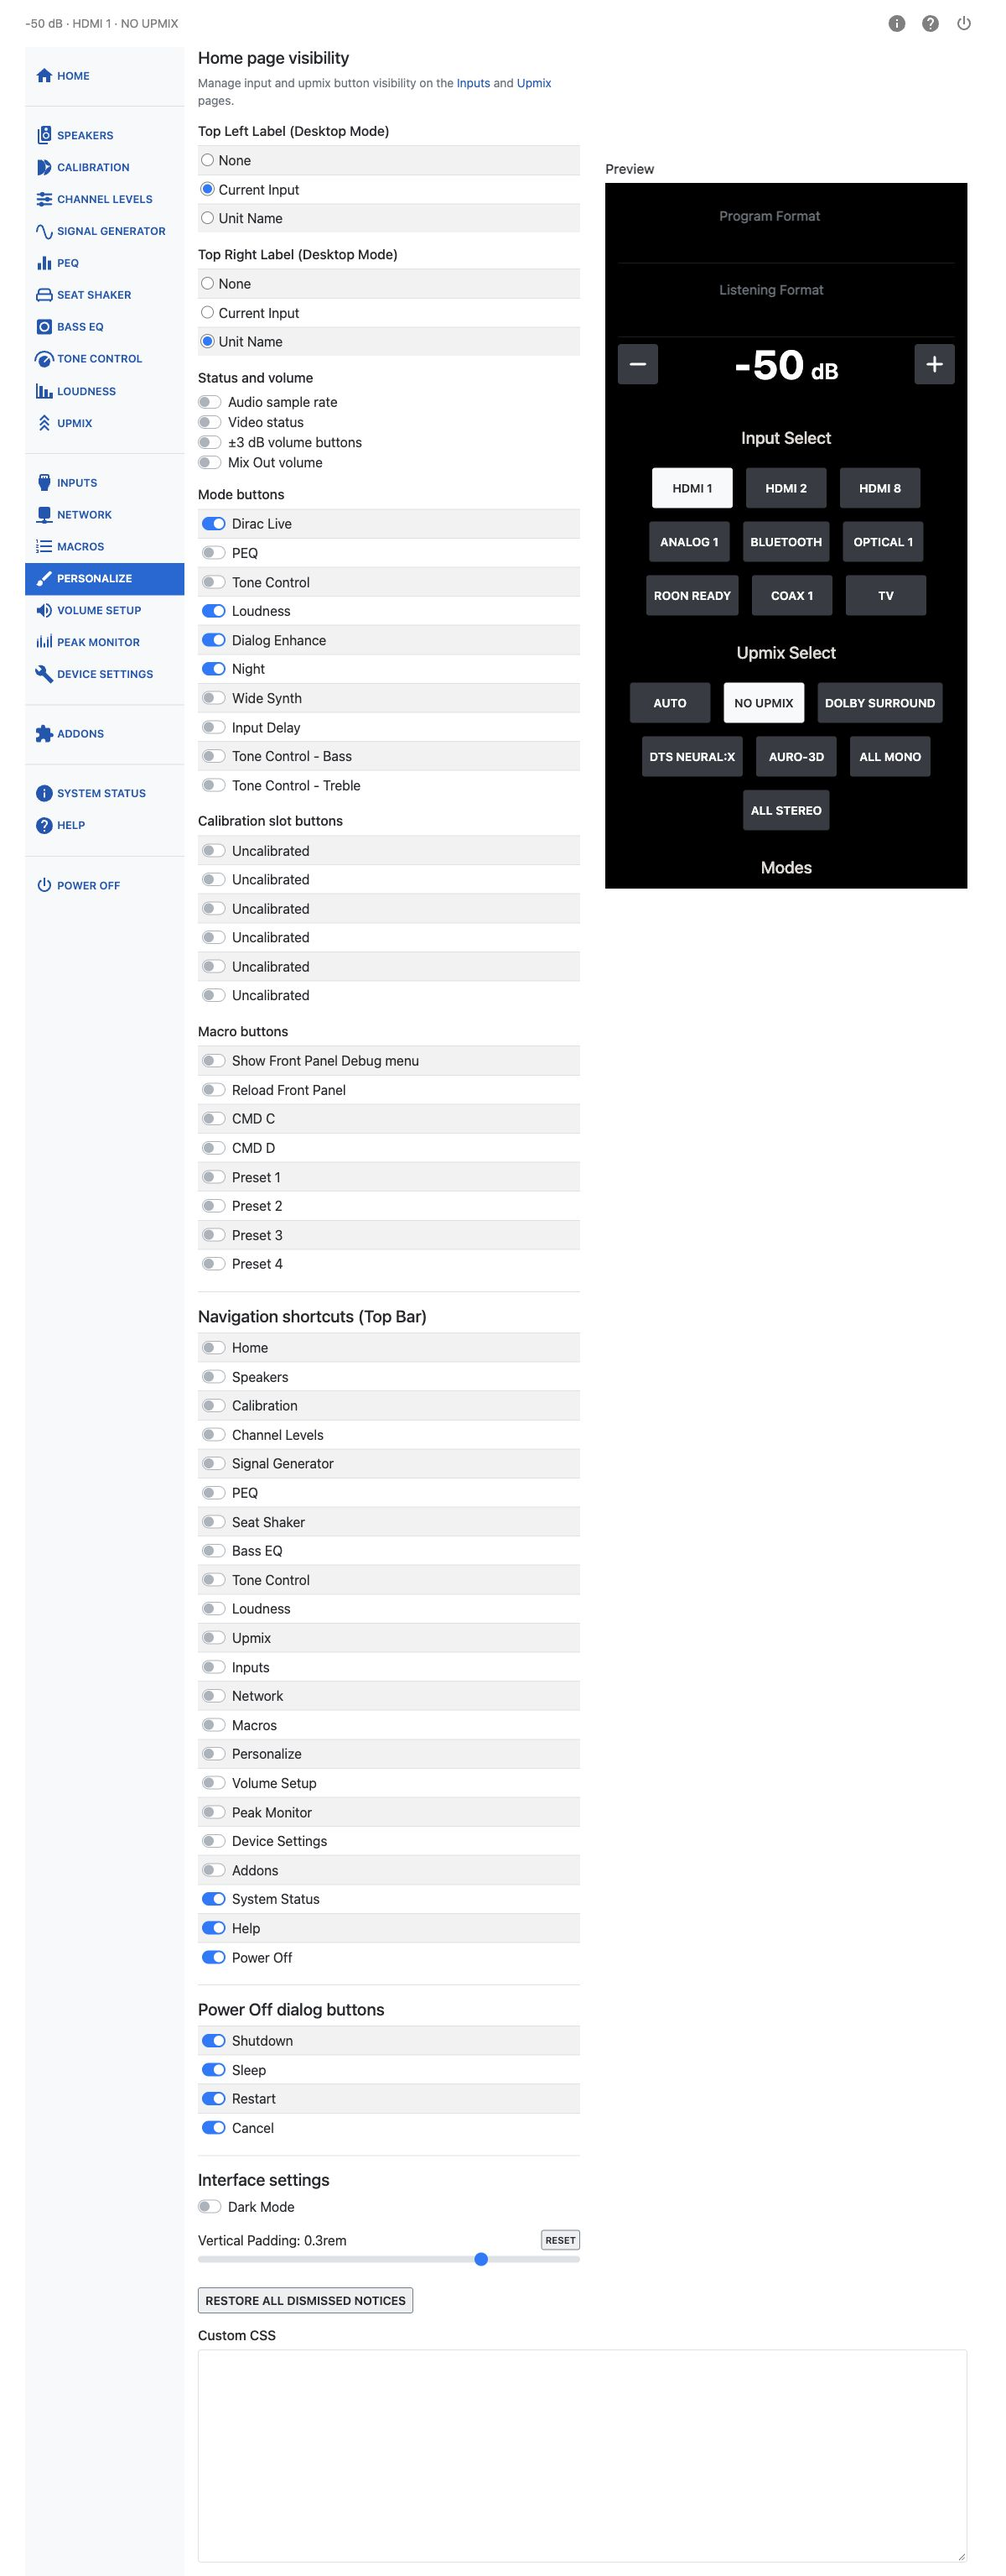
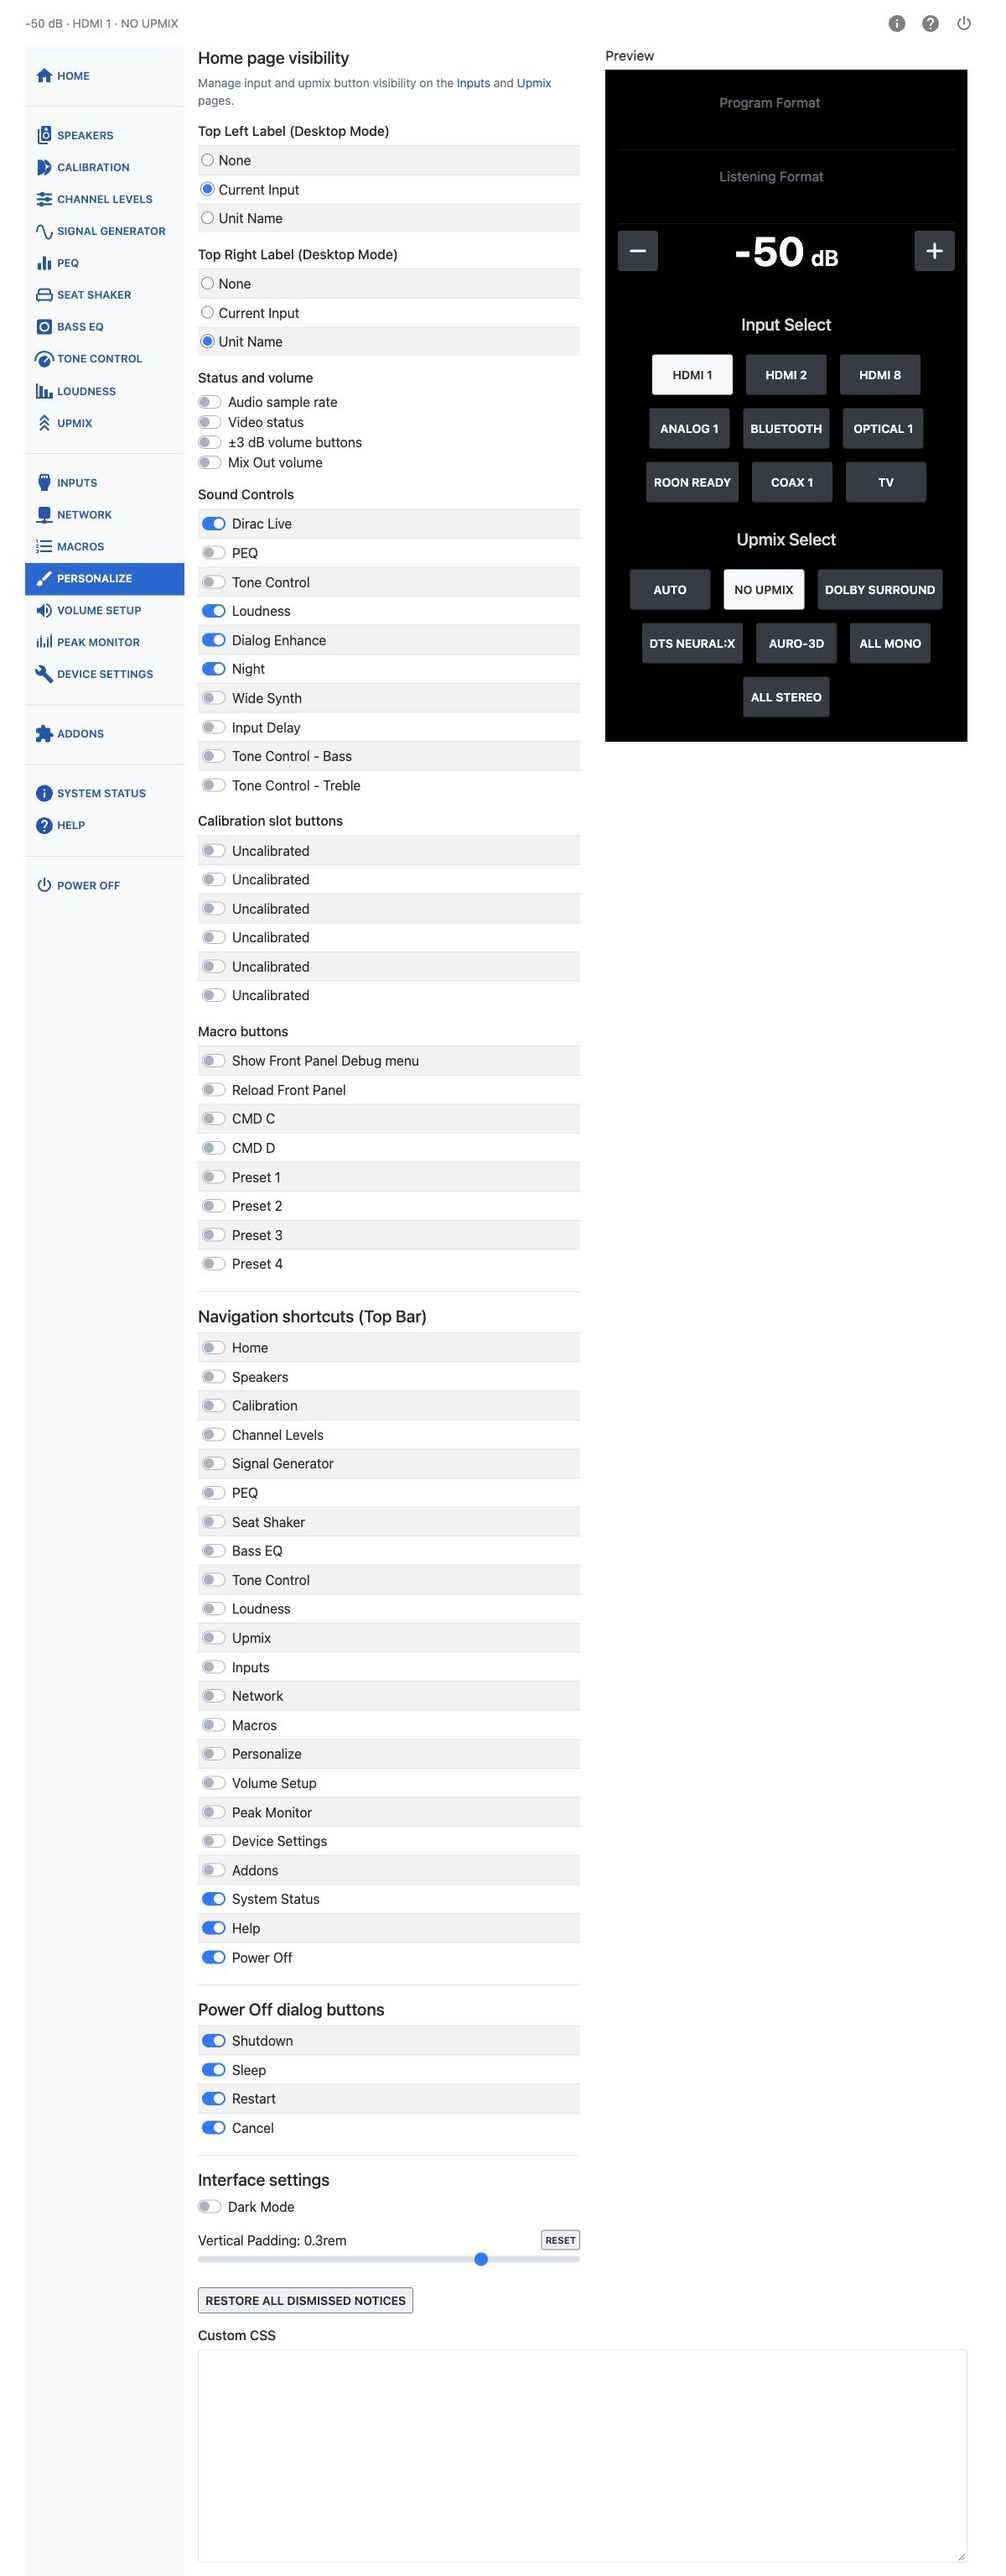
Use Sound Controls terminology and refresh Home screenshots

Changed region(s): [[0.5858, 0.0, 0.9867, 0.3713]]

diff --git a/docs/user-guide/product-overview.md b/docs/user-guide/product-overview.md
@@ -89,7 +89,7 @@ The Home page is what you land on, and what most day-to-day control happens from
 - **Program Format** and **Listening Format** status cards report the incoming and actual decoded formats. A **Video** status card can also appear here, if enabled on Personalize.
 - The **Volume** readout sits in the center, with tap targets on either side to step it up or down. If Mix Out is enabled, a second **Mix Out Volume** control appears below it.
 - **Input Select** and **Upmix Select** button rows choose the active input and upmix mode. Which inputs and upmixes appear, and in what order, is set on the [Inputs](inputs.md) and [Upmix](upmix.md) pages.
-- A row of **Modes** buttons toggles **Dirac Live** (a three-state on / bypass / off control), **Loudness**, **Dialog Enhance**, and **Night** (off / auto / on).
+- The **Sound Controls** section toggles **Dirac Live** (a three-state on / bypass / off control), **Loudness**, **Dialog Enhance**, and **Night** (off / auto / on).
 - If you have Dirac Live calibrations saved, a **Dirac Live Slot Select** row lets you switch between them directly from Home.
 - Rows of **macro** buttons can also appear here, if you have set any up.
 

diff --git a/docs/user-guide/personalize.md b/docs/user-guide/personalize.md
@@ -5,7 +5,7 @@ you see throughout the web UI, and a few display preferences for the interface a
 A live preview of the Home page sits alongside the settings, so you can see the effect of a
 change immediately.
 
-![Personalize page showing homepage settings, shortcuts, modes, and the live preview](images/ui-personalize.jpg)
+![Personalize page showing homepage settings, shortcuts, sound controls, and the live preview](images/ui-personalize.jpg)
 
 ## Homepage Status Display
 
@@ -35,9 +35,9 @@ shown or hidden, along with every other settings page.
 If the Power Off shortcut is turned on, choose which buttons appear in the power dialog:
 Shutdown, Sleep, Restart, and Cancel.
 
-## Homepage Modes
+## Sound Controls
 
-Choose which buttons appear in the Home page's Modes row: Dirac Live, PEQ, Tone Control,
+Choose which buttons appear in the Home page’s Sound Controls section: Dirac Live, PEQ, Tone Control,
 Tone Control - Bass, Tone Control - Treble, Loudness, Dialog Enhance, Night Mode, Wide Synth, and
 Input Delay (lip-sync).
 

diff --git a/docs/user-guide/home-page.md b/docs/user-guide/home-page.md
@@ -9,7 +9,7 @@ Almost everything on this page is optional. What appears here — which status c
 mode buttons, which Dirac Live slots and macros — is controlled from the [Personalize](personalize.md)
 page.
 
-![Home page showing status cards, volume control, input and upmix buttons, modes, and macros](images/ui-home.jpg)
+![Home page showing status cards, volume control, input and upmix buttons, sound controls, and macros](images/ui-home.jpg)
 
 ## Status Cards
 
@@ -80,10 +80,10 @@ Tap a button to choose an upmix or surround mode. Only modes you have marked vis
 [Upmix](upmix.md) page appear here. Tapping the "Upmix Select" heading takes you
 to the Upmix page.
 
-## Modes
+## Sound Controls
 
-The Modes row can hold any of the following buttons. Each one is turned on or off individually
-in Personalize, under Homepage Modes.
+The Sound Controls section can hold any of the following buttons. Each one is turned on or off individually
+in Personalize, under Sound Controls.
 
 | Button | Behavior |
 |---|---|
